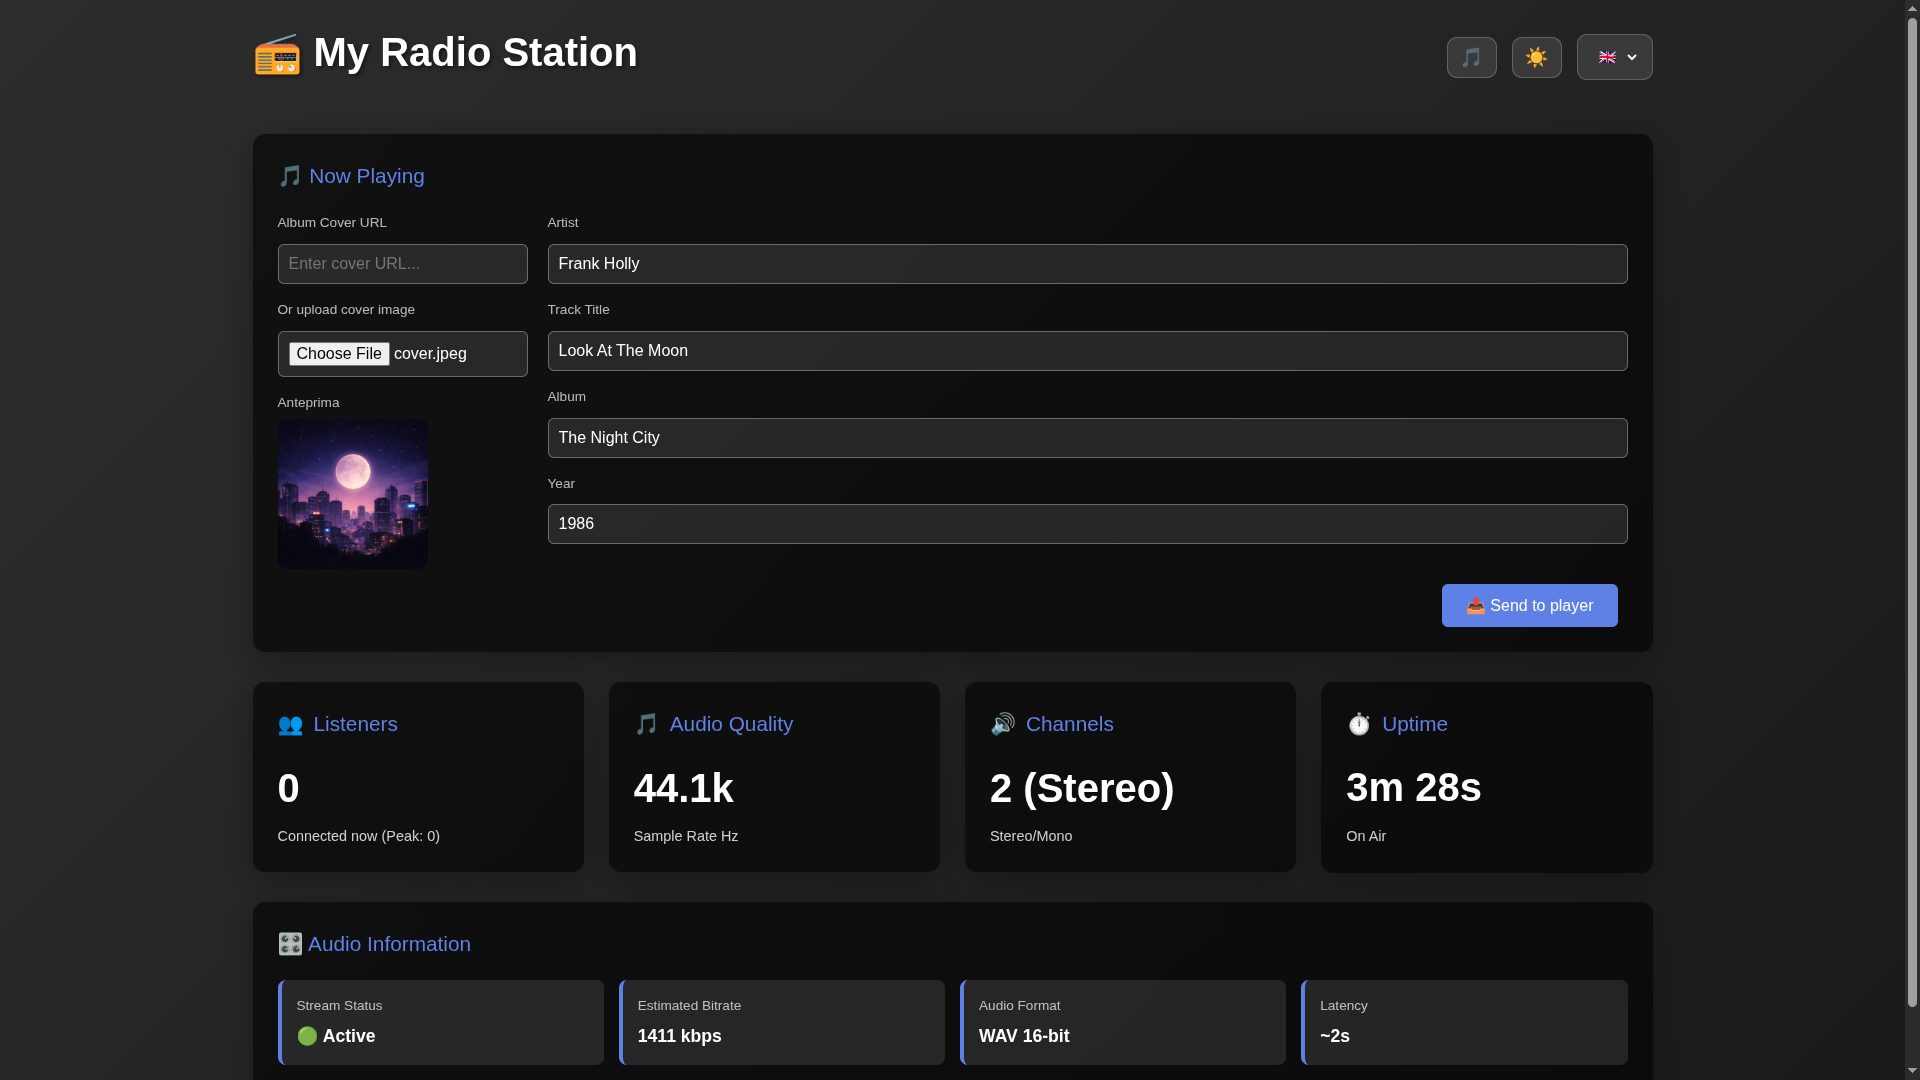
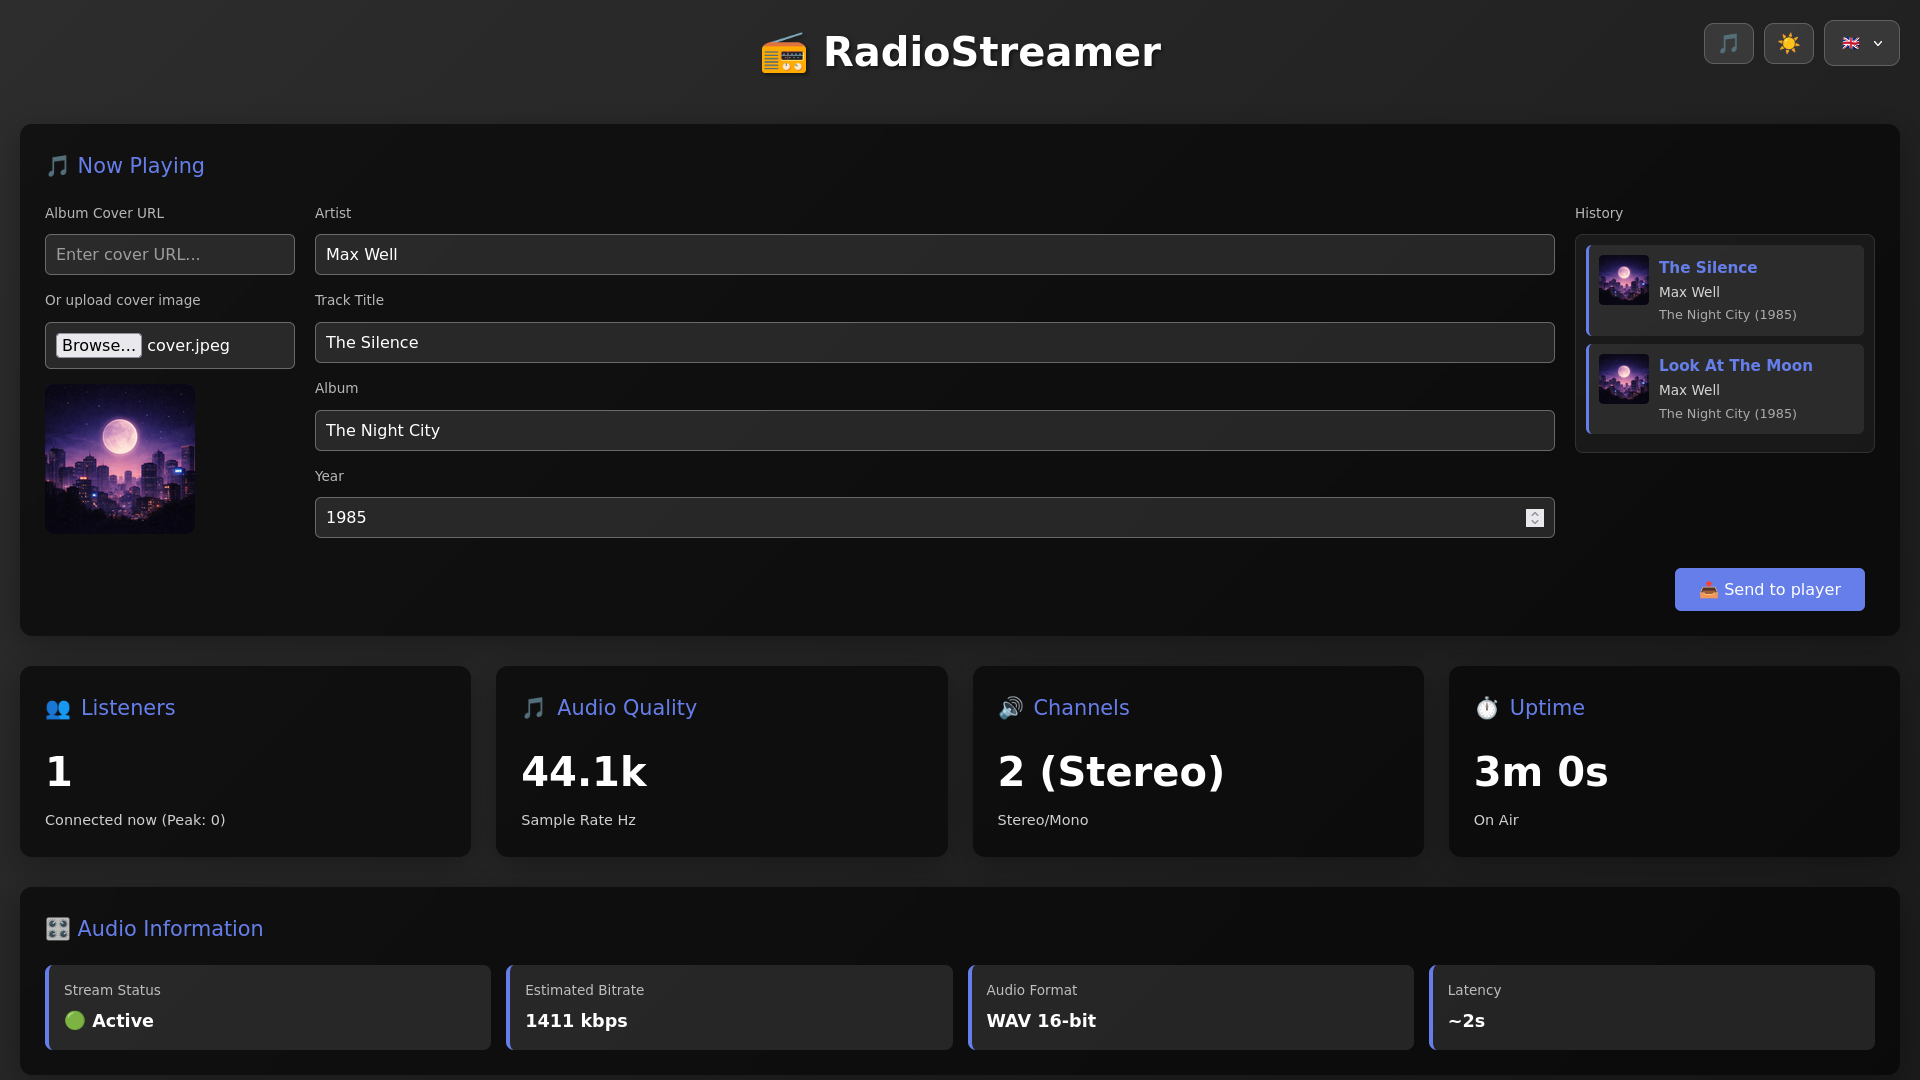
feat(audio-streamer) [master] improvements

diff --git a/README.md b/README.md
@@ -17,16 +17,14 @@
 
 ---
 
-<table>
-<tr>
-<td width="50%">
-<img src="screenshots/player.png" alt="Player Interface"/>
-</td>
-<td width="50%">
-<img src="screenshots/dashboard.png" alt="Dashboard Interface"/>
-</td>
-</tr>
-</table>
+<p align="center">
+  <img src="screenshots/player.png" alt="Player Interface" width="1000"/>
+</p>
+
+<p align="center">
+  <img src="screenshots/dashboard.png" alt="Dashboard Interface" width="600"/>
+  <img src="screenshots/dashboard_liquid.png" alt="Liquid Music Dashboard" width="600"/>
+</p>
 
 <table>
 <tr>
